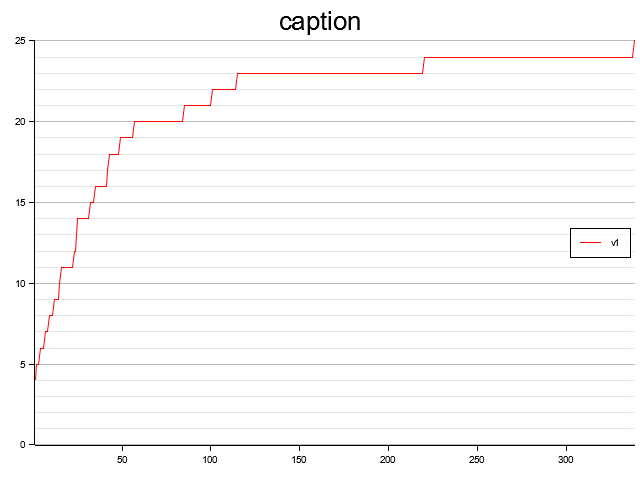
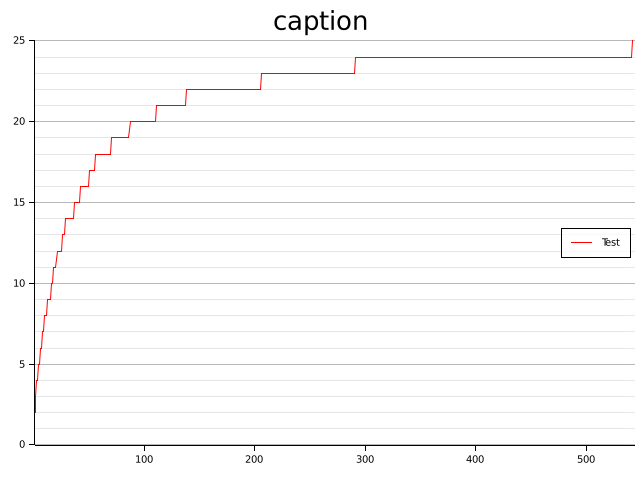
working on graph generation

diff --git a/project01/src/main.rs b/project01/src/main.rs
@@ -17,14 +17,15 @@ use std::{
     time::{Duration, Instant},
 };
 
+
 // Output file paths
 const OUT_FILE: &'static str = "output/0.png";
 
 // Unchangable simulation parameters
 const STRAND_SIZE: usize = 100;
-const POPULATION_SIZE: usize = 500;
+const POPULATION_SIZE: usize = 250;
 const GENERATION_LIMIT: u64 = 16384; // 2^14
-const BATCH_SIZE: u64 = 32;
+const BATCH_SIZE: u64 = 16;
 // The Parameter struct defines the changable parameters need to run a simulation
 #[derive(Debug, Clone, Copy)]
 struct Parameters<'a> {
@@ -193,10 +194,11 @@ impl GenomeBuilder<Genome> for RandomStrandBuilder {
     }
 }
 
-type Data = Vec<(u32, u32)>;
+type Data = Vec<u32>;
+type DataSetWithLables = Vec<(String, Data)>;
 
 // Runs a simulation based on a set of give parameters
-fn run_sim_from_parms(parms: &Parameters, thread_number: u64) -> Option<Data> {
+fn run_sim_from_parms(parms: &Parameters, thread_number: Option<u64>) -> Option<Data> {
     let initial_population: Population<Genome> = build_population()
         .with_genome_builder(RandomStrandBuilder)
         .of_size(POPULATION_SIZE)
@@ -229,11 +231,17 @@ fn run_sim_from_parms(parms: &Parameters, thread_number: u64) -> Option<Data> {
         ))
         .build();
 
-    println!(
-        "[thread #{}]: Starting a simulation with {} parameters.",
-        thread_number, parms.parms_name
-    );
-
+    match thread_number {
+        Some(n) => println!(
+            "[thread #{}]: Starting a simulation with {} parameters.",
+            n, parms.parms_name
+        ),
+        None => println!(
+            "Starting a simulation with {} parameters.",
+            parms.parms_name
+        ),
+    }
+    
     let mut data = vec![];
 
     loop {
@@ -241,58 +249,74 @@ fn run_sim_from_parms(parms: &Parameters, thread_number: u64) -> Option<Data> {
         match result {
             Ok(SimResult::Intermediate(step)) => {
                 let best_fitness = step.result.best_solution.solution.fitness;
-                data.push((step.iteration as u32, best_fitness as u32));
+                data.push(best_fitness as u32);
             }
             Ok(SimResult::Final(step, _, _, _)) => {
                 let best_fitness = step.result.best_solution.solution.fitness;
                 if best_fitness == ClustersOf4FitnessCalculator.highest_possible_fitness() {
-                    println!(
-                        "[thread #{}]: Optimal solution was found after {} generations.",
-                        thread_number, step.iteration
-                    )
+                    match thread_number {
+                        Some(n) => println!(
+                            "[thread #{}]: Optimal solution was found after {} generations.",
+                            n, step.iteration
+                        ),
+                        None => println!(
+                            "Optimal solution was found after {} generations.",
+                            step.iteration
+                        ),
+                    }  
                 } else {
-                    println!(
-                        "[thread #{}]: Optimal solution was not found after the max of {} generations.",
-                        thread_number, step.iteration
-                    );
+                    match thread_number {
+                        Some(n) => println!(
+                            "[thread #{}]: Optimal solution was not found after the max of {} generations.",
+                            n, step.iteration
+                        ),
+                        None => println!(
+                            "Optimal solution was not found after the max of {} generations.",
+                            step.iteration
+                        ),
+                    }
                 }
-                data.push((step.iteration as u32, best_fitness as u32));
+                data.push(best_fitness as u32);
                 return Some(data);
             }
             Err(error) => {
-                println!("[thread #{}]: {}", thread_number, error);
+                match thread_number {
+                    Some(n) => println!("[thread #{}]: {}", n, error),
+                    None => println!("{}", error),
+                }
                 return None;
             }
         }
     }
 }
 
-fn run_sim_batch_from_parms(parms: &Parameters, runs: u64) {
+fn run_sim_batch_from_parms(parms: &Parameters) -> Option<Data> {
     // Create a thread scope for parms
     thread::scope(|scope| {
         let start_time = Instant::now();
         let parms = Arc::new(parms);
         let sum = Arc::new(Mutex::new(0));
+        let mut data: Vec<Data> = vec![];
         let mut handles = vec![];
 
         // Create a pool of threads
         println!(
             "[thread pool]: Creating threadpool with {} parameters of size {}.",
-            parms.parms_name, runs
+            parms.parms_name, BATCH_SIZE
         );
-        for i in 1..=runs {
+        for i in 1..=BATCH_SIZE {
+            thread::sleep(Duration::from_millis(i * 20));
             let parms = Arc::downgrade(&parms);
             let sum = Arc::clone(&sum);
-            let handle = scope.spawn(move || -> Option<_> {
-                thread::sleep(Duration::from_millis(i * 20));
+            let handle = scope.spawn(move || -> Option<Data> {
                 let parms = parms.upgrade()?;
-                let data = run_sim_from_parms(&parms, i)?;
-                if (*data.last()?).1 as usize
+                let data = run_sim_from_parms(&parms, Some(i))?;
+                if (*data.last()?) as usize
                     == ClustersOf4FitnessCalculator.highest_possible_fitness()
                 {
                     let mut sum = sum.lock().unwrap();
                     *sum += data.len();
-                    Some(())
+                    Some(data)
                 } else {
                     None
                 }
@@ -301,25 +325,45 @@ fn run_sim_batch_from_parms(parms: &Parameters, runs: u64) {
         }
 
         for handle in handles {
-            if handle.join().unwrap() == None {
-                println!(
-                    "[thread pool]: With {} parameters, optimal solution was not always found within the generation limit!",
-                    parms.parms_name
-                );
-                return;
+            match handle.join().unwrap() {
+                Some(h) => data.push(h),
+                None => {
+                    println!(
+                        "[thread pool]: With {} parameters, optimal solution was not always found within the generation limit!",
+                        parms.parms_name
+                    );
+                    return None;
+                },
             }
         }
 
-        let avg = (*sum.lock().unwrap() as f64 / runs as f64).round();
-        // Some(avg)
+        let avg = (*sum.lock().unwrap() as f64 / BATCH_SIZE as f64).round();
+        
+        let max_size = data.iter().map(|d| d.len()).max().unwrap();
+        let mut combined_data = vec![0; max_size];
+        for (i, d) in combined_data.iter_mut().enumerate() {
+            for s in data.iter() {
+                *d += if i < s.len() {
+                    s[i]
+                } else {
+                    ClustersOf4FitnessCalculator.highest_possible_fitness() as u32
+                };
+            }
+            *d = (*d as f64 / BATCH_SIZE as f64) as u32;
+        }
+        dbg!(&combined_data);
+
         println!(
             "[thread pool]: With {} paremeters, a perfect solution was found in all {} simulations, at generation {} on average. Batch took {} seconds.",
-            parms.parms_name, runs, avg, start_time.elapsed().as_secs()
+            parms.parms_name, BATCH_SIZE, avg, start_time.elapsed().as_secs()
         );
+        Some(combined_data)
     }) // thread::scope
 }
 
-fn generate_graph(data: Data, out_file: &'static str) -> Result<(), Box<dyn std::error::Error>> {
+fn generate_graph(dataset: DataSetWithLables, out_file: &'static str) -> Result<(), Box<dyn std::error::Error>> {
+    let gens = dataset.first().unwrap().1.len() as u32;
+
     let root = BitMapBackend::new(out_file, (640, 480)).into_drawing_area();
     root.fill(&WHITE)?;
 
@@ -329,18 +373,20 @@ fn generate_graph(data: Data, out_file: &'static str) -> Result<(), Box<dyn std:
         .x_label_area_size(30)
         .y_label_area_size(30)
         .build_cartesian_2d(
-            1 as u32..data.len() as u32,
+            1 as u32..gens,
             ClustersOf4FitnessCalculator.lowest_possible_fitness() as u32
                 ..ClustersOf4FitnessCalculator.highest_possible_fitness() as u32,
         )?;
 
     chart.configure_mesh().disable_x_mesh().x_labels(8).draw()?;
 
-    chart
-        .draw_series(LineSeries::new(data.iter().map(|(x, y)| (*x, *y)), &RED))?
-        .label("v1")
-        .legend(|(x, y)| PathElement::new(vec![(x, y), (x + 20, y)], &RED));
-
+    for (label, data) in dataset.iter() {
+        let data = data.iter().enumerate();
+        chart
+            .draw_series(LineSeries::new(data.map(|(x, y)| (x as u32, *y)), &RED))?
+            .label(label)
+            .legend(|(x, y)| PathElement::new(vec![(x, y), (x + 20, y)], &RED));
+    }
     chart
         .configure_series_labels()
         .background_style(&WHITE.mix(0.8))
@@ -356,7 +402,7 @@ fn main() {
     assert_eq!(STRAND_SIZE % 4, 0);
 
     let parms_default = Parameters::default();
-    let parms_16_indiv_per_parent = Parameters {
+    let _parms_16_indiv_per_parent = Parameters {
         parms_name: "16-individuals-per-parent",
         num_individuals_per_parents: 16,
         selection_ratio: parms_default.selection_ratio,
@@ -364,9 +410,10 @@ fn main() {
         reinsertion_ratio: parms_default.reinsertion_ratio,
     };
 
-    //run_sim_batch_from_parms(&parms_default, BATCH_SIZE);
-    //run_sim_batch_from_parms(&parms_16_indiv_per_parent, BATCH_SIZE);
+    let data = run_sim_batch_from_parms(&parms_default).unwrap();
+    //run_sim_batch_from_parms(&parms_16_indiv_per_parent);
     //generate_graph(OUT_FILE).unwrap();
 
-    generate_graph(run_sim_from_parms(&parms_default, 0).unwrap(), OUT_FILE).unwrap();
+    // let data = run_sim_from_parms(&parms_default, None).unwrap();
+    generate_graph(vec![("Test".to_string(), data)], OUT_FILE).unwrap();
 }
